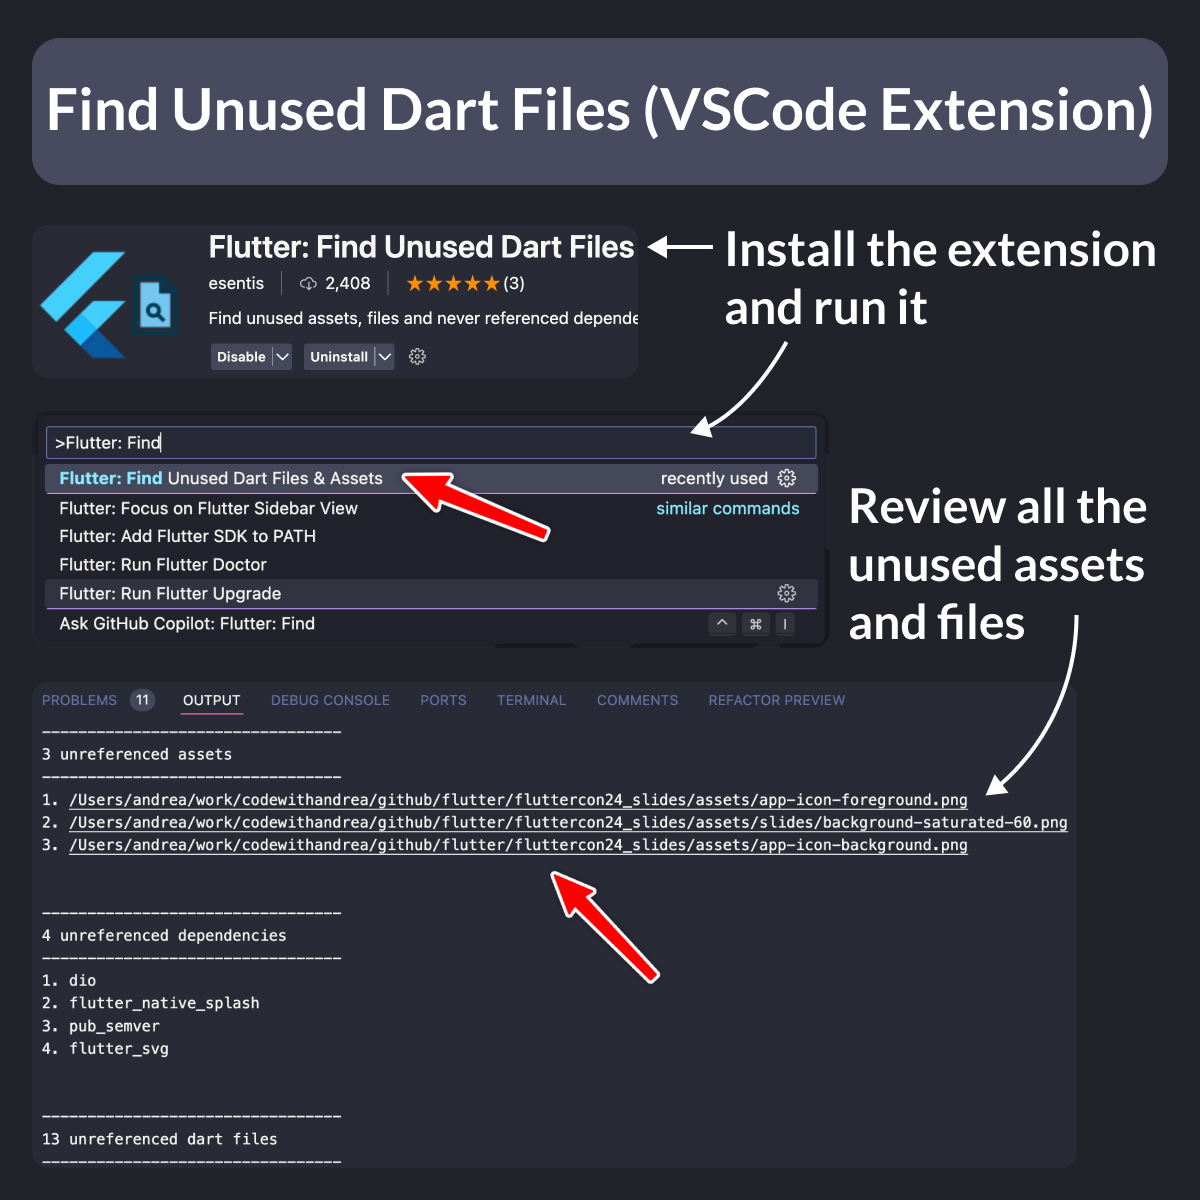
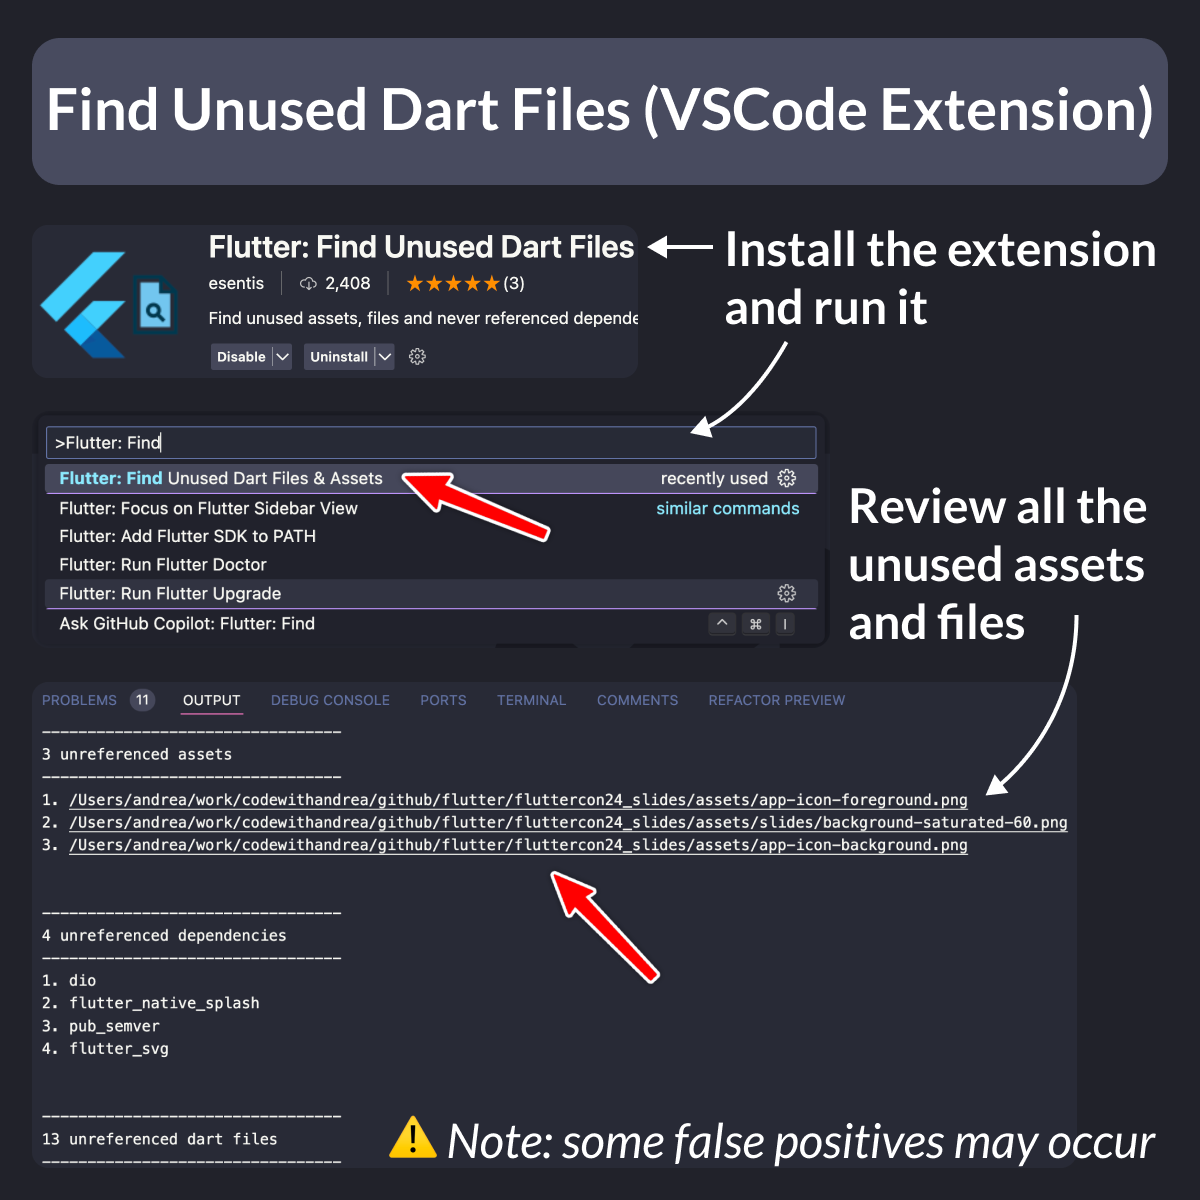
Update tip 167

Changed region(s): [[0.3083, 0.925, 0.9558, 0.9867]]

diff --git a/tips/0167-find-unused-dart-files/index.md b/tips/0167-find-unused-dart-files/index.md
@@ -6,7 +6,7 @@ Unused assets will increase your app bundle size, which is undesired.
 
 To prevent this, you can install the "Find Unused Dart Files" extension for VSCode.
 
-Then, simply run it from the command palette and remove all the unused assets, files, and dependencies. 👌
+Then, simply run it from the command palette and review all the unused assets, files, and dependencies. 👌
 
 ![](167.png)
 
@@ -18,11 +18,19 @@ A VSCode extension to find unused assets, files and never referenced dependencie
 
 -->
 
----
-
 You can download the extension here:
 
 - [Flutter: Find Unused Dart Files & Assets](https://marketplace.visualstudio.com/items?itemName=esentis.flutter-find-unused-assets-and-dart-files)
+
+---
+
+### Removing unused code via static analysis
+
+**Note**: the extension works by finding references to the asset file names in your Dart code, and as such, it can produce false positives. So it's always best to check that they're actually unused before removing them.
+
+If you want to reliably remove unused code and Dart files, consider using a static analysis tool like [DCM](https://dcm.dev/), which can detect and remove any [unused code](https://dcm.dev/blog/2024/01/09/whats-new-in-dcm-1-13-0/#unused-code-improvements) via `dcm fix` or from the IDE.
+
+Happy coding!
 
 ---
 
